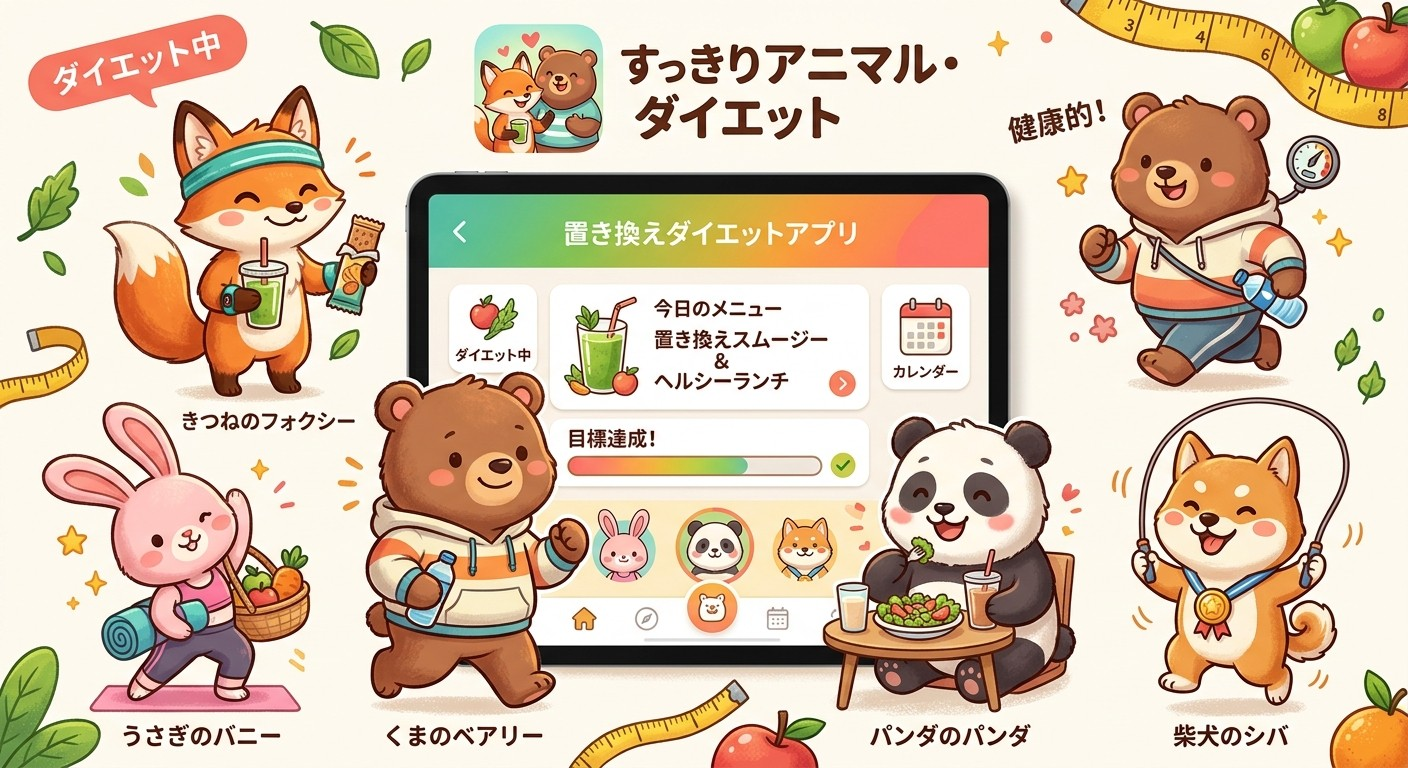
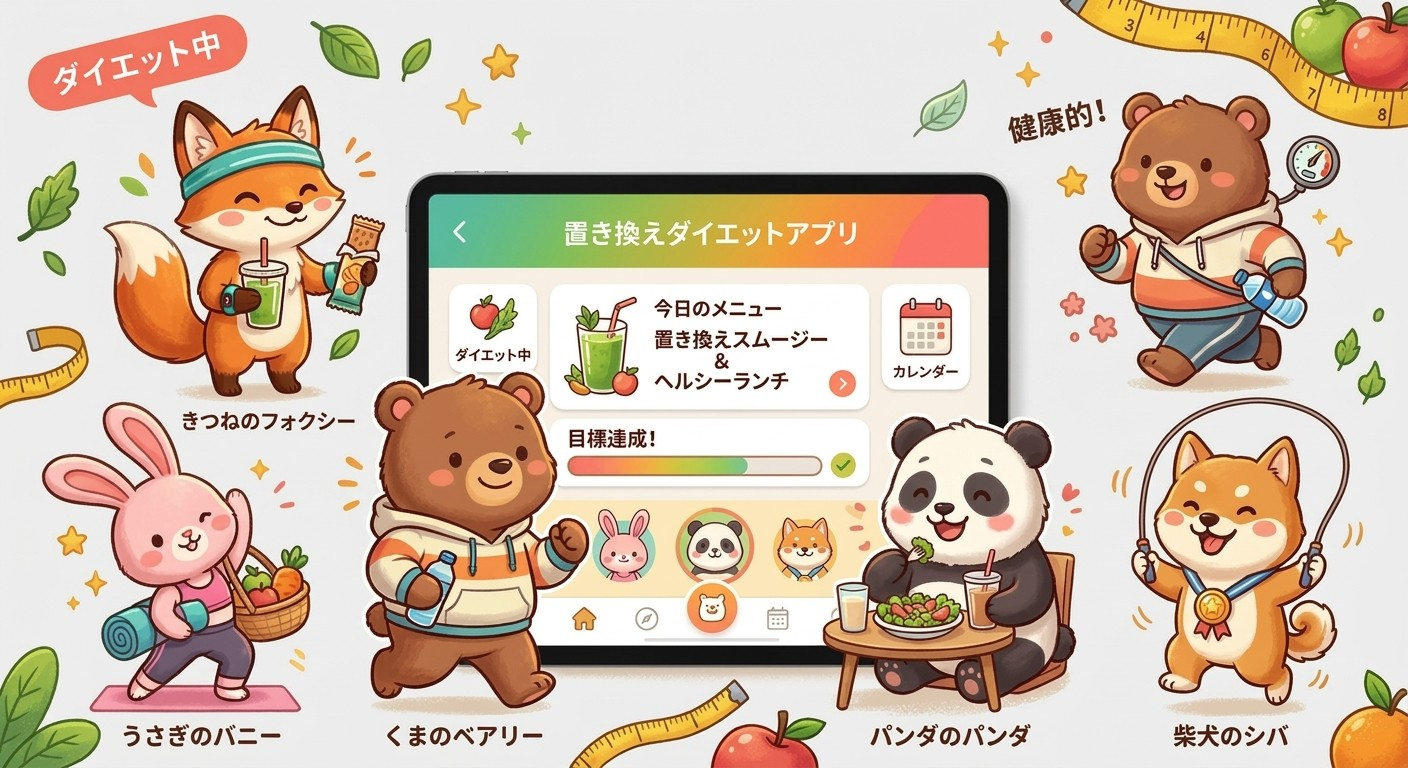
設定画面の背景イラストを差し替え、ランキング画面にも背景イラストを追加

diff --git a/static/leaderboard.html b/static/leaderboard.html
@@ -11,6 +11,14 @@
 <link rel="icon" type="image/png" href="images/app-icon.png">
 <link rel="apple-touch-icon" href="images/app-icon.png">
 <style>
+  /* この画面だけ、背景をイラストに差し替える */
+  body{
+    background-image:linear-gradient(rgba(243,248,244,0.55), rgba(243,248,244,0.55)), url("images/leaderboard-bg.jpg");
+    background-repeat:no-repeat;
+    background-size:auto, cover;
+    background-position:center, center;
+    background-attachment:fixed, fixed;
+  }
   .rank-row{display:flex;align-items:center;gap:12px;padding:12px 0;border-bottom:1px solid var(--border);}
   .rank-row:last-child{border-bottom:none;}
   .rank-row.is-me{background:var(--primary-bg);border-radius:12px;padding-left:10px;padding-right:10px;}

diff --git a/static/profile.html b/static/profile.html
@@ -13,11 +13,11 @@
 <style>
   /* この画面だけ、背景をイラストに差し替える(オーバーレイなし、画像そのまま) */
   body{
-    background-image:url("images/profile-bg.jpg");
+    background-image:linear-gradient(rgba(243,248,244,0.55), rgba(243,248,244,0.55)), url("images/profile-bg.jpg");
     background-repeat:no-repeat;
-    background-size:cover;
-    background-position:center;
-    background-attachment:fixed;
+    background-size:auto, cover;
+    background-position:center, center;
+    background-attachment:fixed, fixed;
   }
   .label{font-size:13px;color:var(--ink-dim);margin-bottom:10px;font-weight:700;}
   select.input{width:100%;margin-bottom:14px;}
